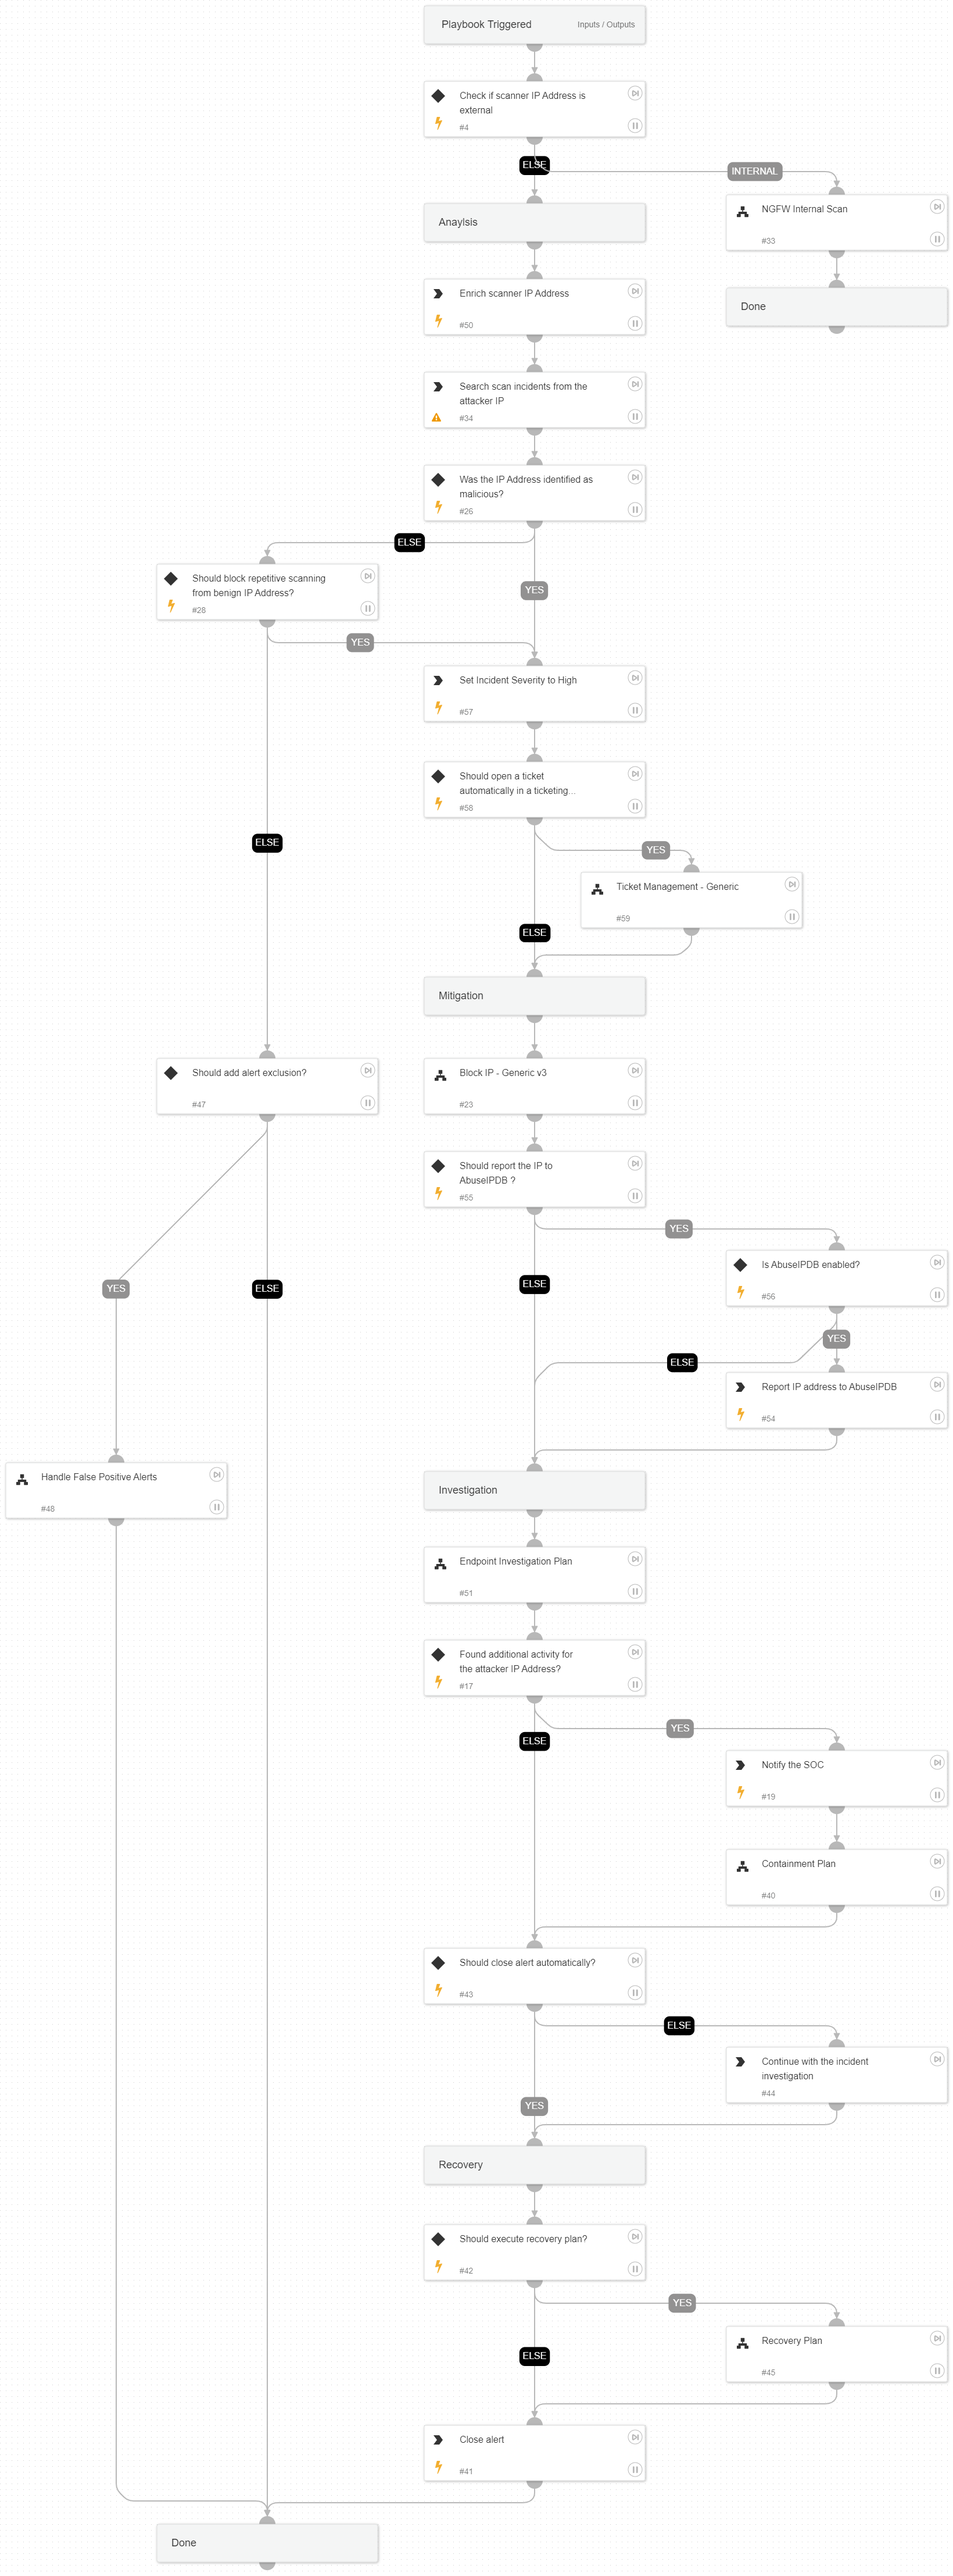
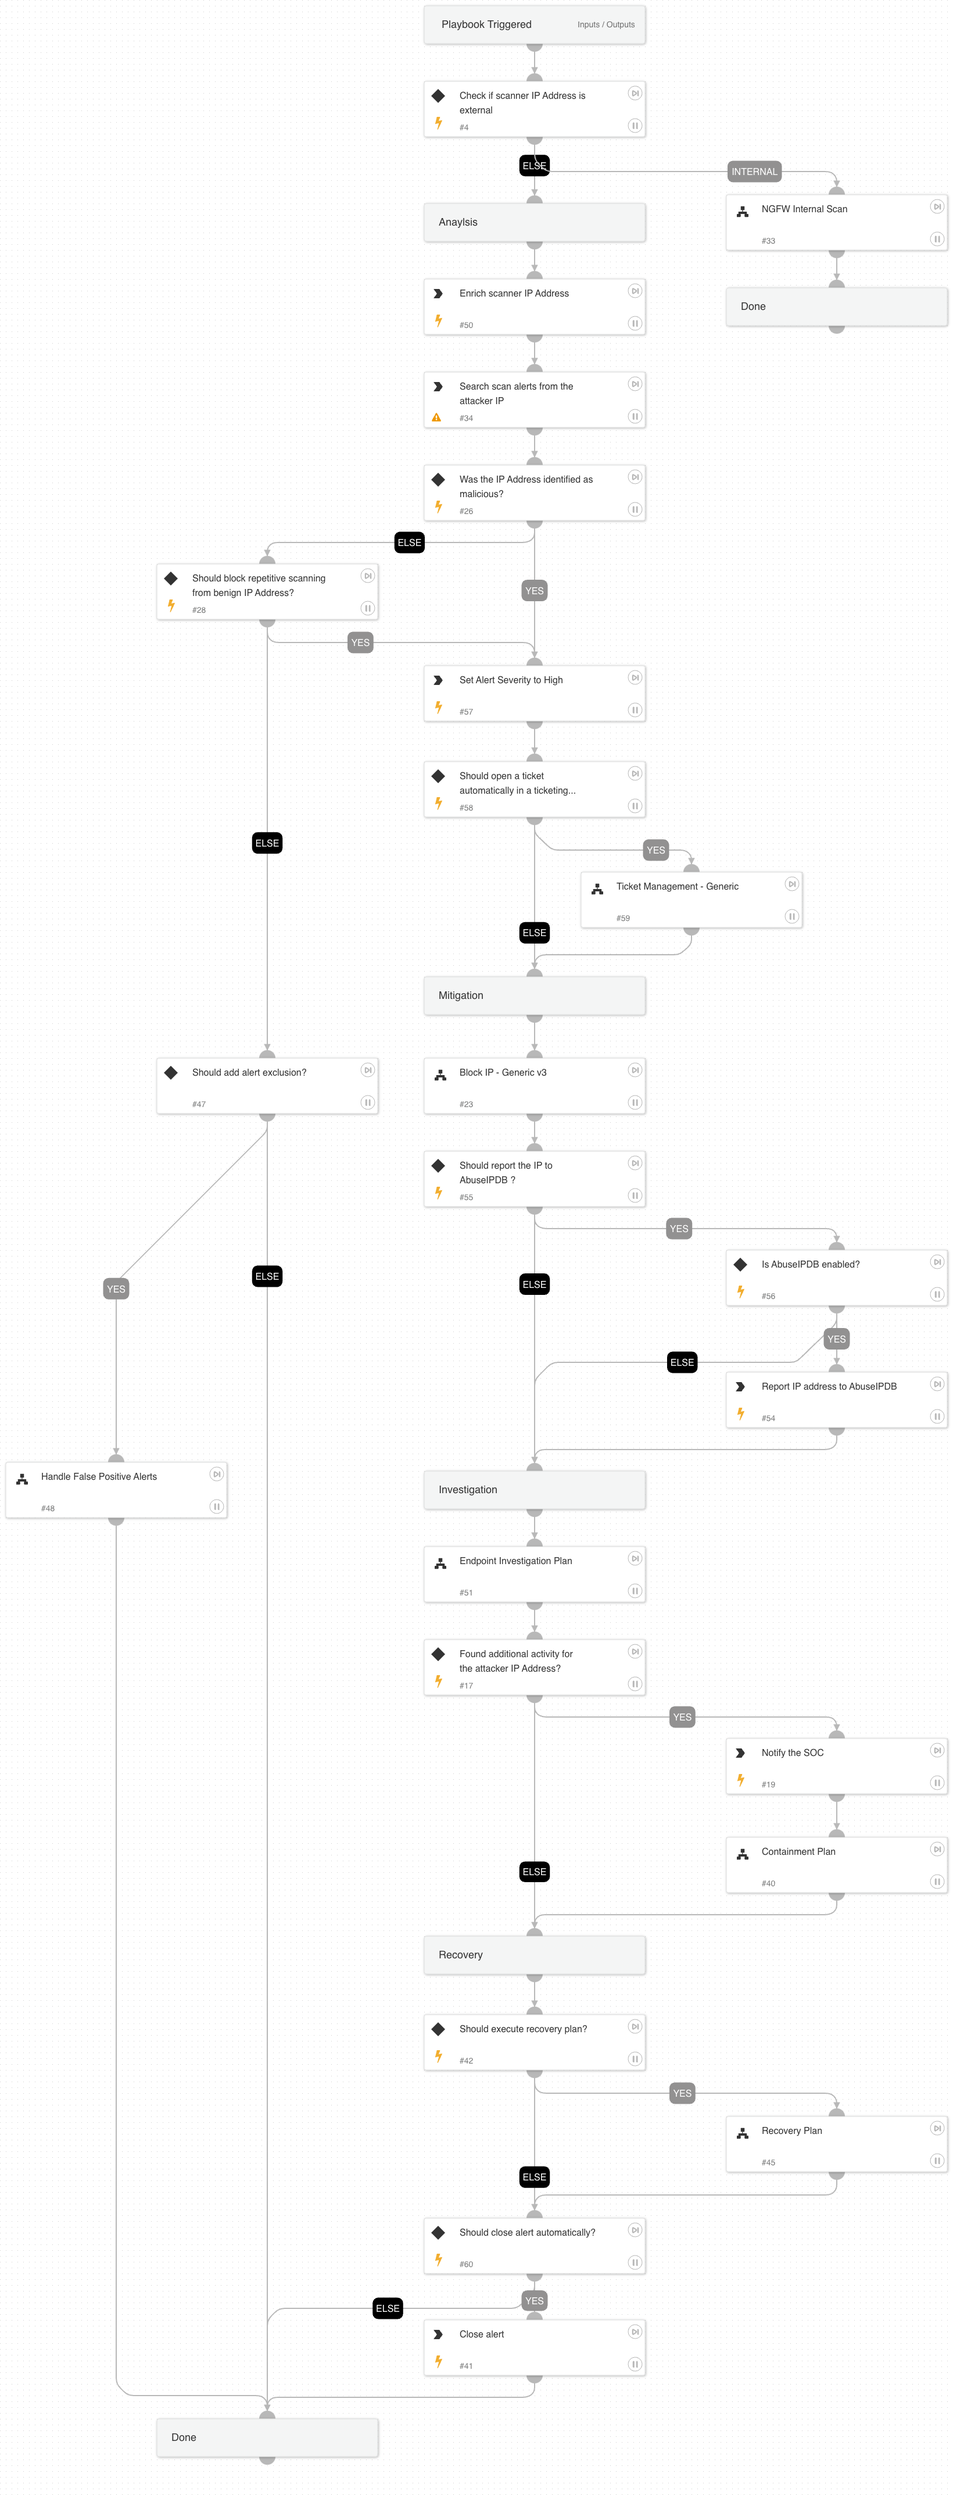
Fixes for 'NGFW Scan' and 'WildFire Malware' XSIAM playbooks (#29774)
* Fixes for 'NGFW Scan' and 'WildFire Malware' XSIAM playbooks

* RN

* fixed RN and 'NGFW Scan playbook'

diff --git a/Packs/Core/Playbooks/playbook-NGFW_Scan_README.md b/Packs/Core/Playbooks/playbook-NGFW_Scan_README.md
@@ -41,17 +41,17 @@ This playbook uses the following sub-playbooks, integrations, and scripts.
 ### Sub-playbooks
 
 * Containment Plan
-* Endpoint Investigation Plan
-* Recovery Plan
-* Handle False Positive Alerts
 * Block IP - Generic v3
-* Ticket Management - Generic
+* Handle False Positive Alerts
+* Endpoint Investigation Plan
 * NGFW Internal Scan
+* Ticket Management - Generic
+* Recovery Plan
 
 ### Integrations
 
-* CoreIOCs
 * CortexCoreIR
+* CoreIOCs
 
 ### Scripts
 
@@ -59,11 +59,11 @@ This playbook uses the following sub-playbooks, integrations, and scripts.
 
 ### Commands
 
-* setParentIncidentFields
-* ip
 * abuseipdb-report-ip
-* send-mail
 * closeInvestigation
+* send-mail
+* ip
+* setParentIncidentFields
 
 ## Playbook Inputs
 

diff --git a/Packs/Core/Playbooks/playbook-WildFire_Malware_README.md b/Packs/Core/Playbooks/playbook-WildFire_Malware_README.md
@@ -8,12 +8,12 @@ This playbook uses the following sub-playbooks, integrations, and scripts.
 
 ### Sub-playbooks
 
-* Containment Plan
-* Handle False Positive Alerts
-* Recovery Plan
 * Enrichment for Verdict
-* Ticket Management - Generic
 * Endpoint Investigation Plan
+* Handle False Positive Alerts
+* Ticket Management - Generic
+* Recovery Plan
+* Containment Plan
 
 ### Integrations
 
@@ -28,8 +28,8 @@ This playbook uses the following sub-playbooks, integrations, and scripts.
 * setParentIncidentFields
 * core-allowlist-files
 * closeInvestigation
-* core-report-incorrect-wildfire
 * core-blocklist-files
+* core-report-incorrect-wildfire
 
 ## Playbook Inputs
 

diff --git a/Packs/Core/ReleaseNotes/2_0_15.md b/Packs/Core/ReleaseNotes/2_0_15.md
@@ -1,0 +1,10 @@
+
+#### Playbooks
+
+##### WildFire Malware
+
+- Removed the *'Continue with the alert investigation'* manual task.
+
+##### NGFW Scan
+
+- Removed the *'Continue with the alert investigation'* manual task.
